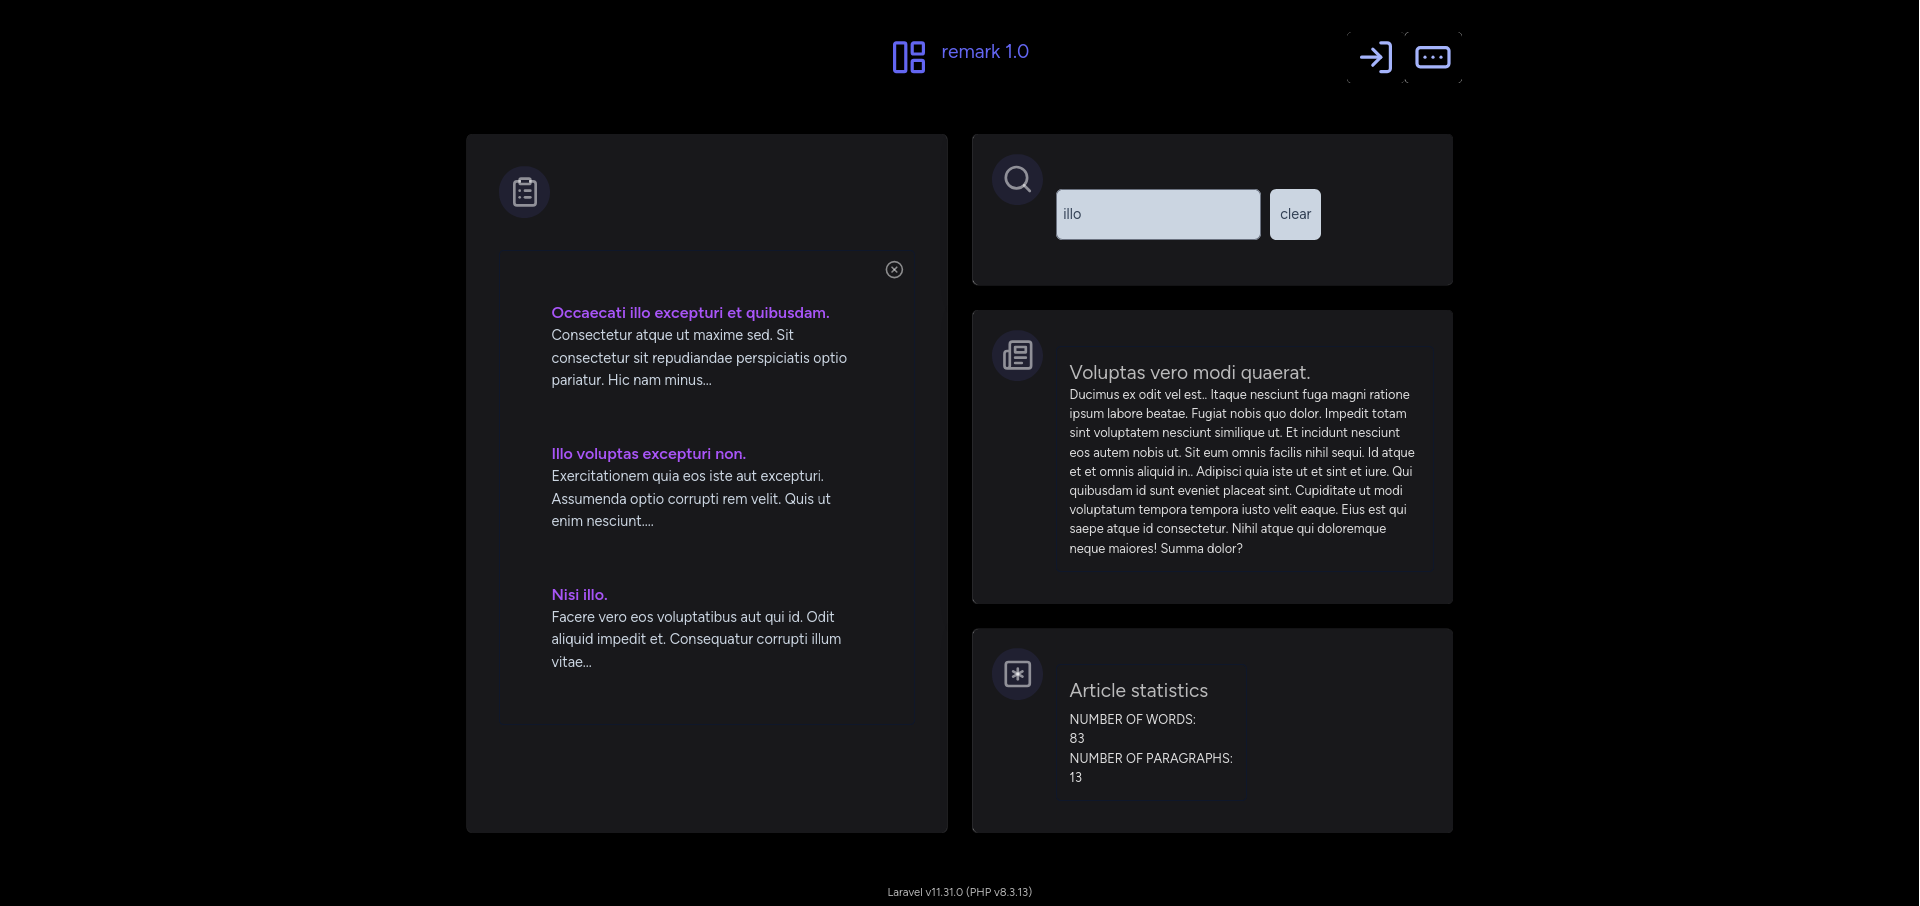
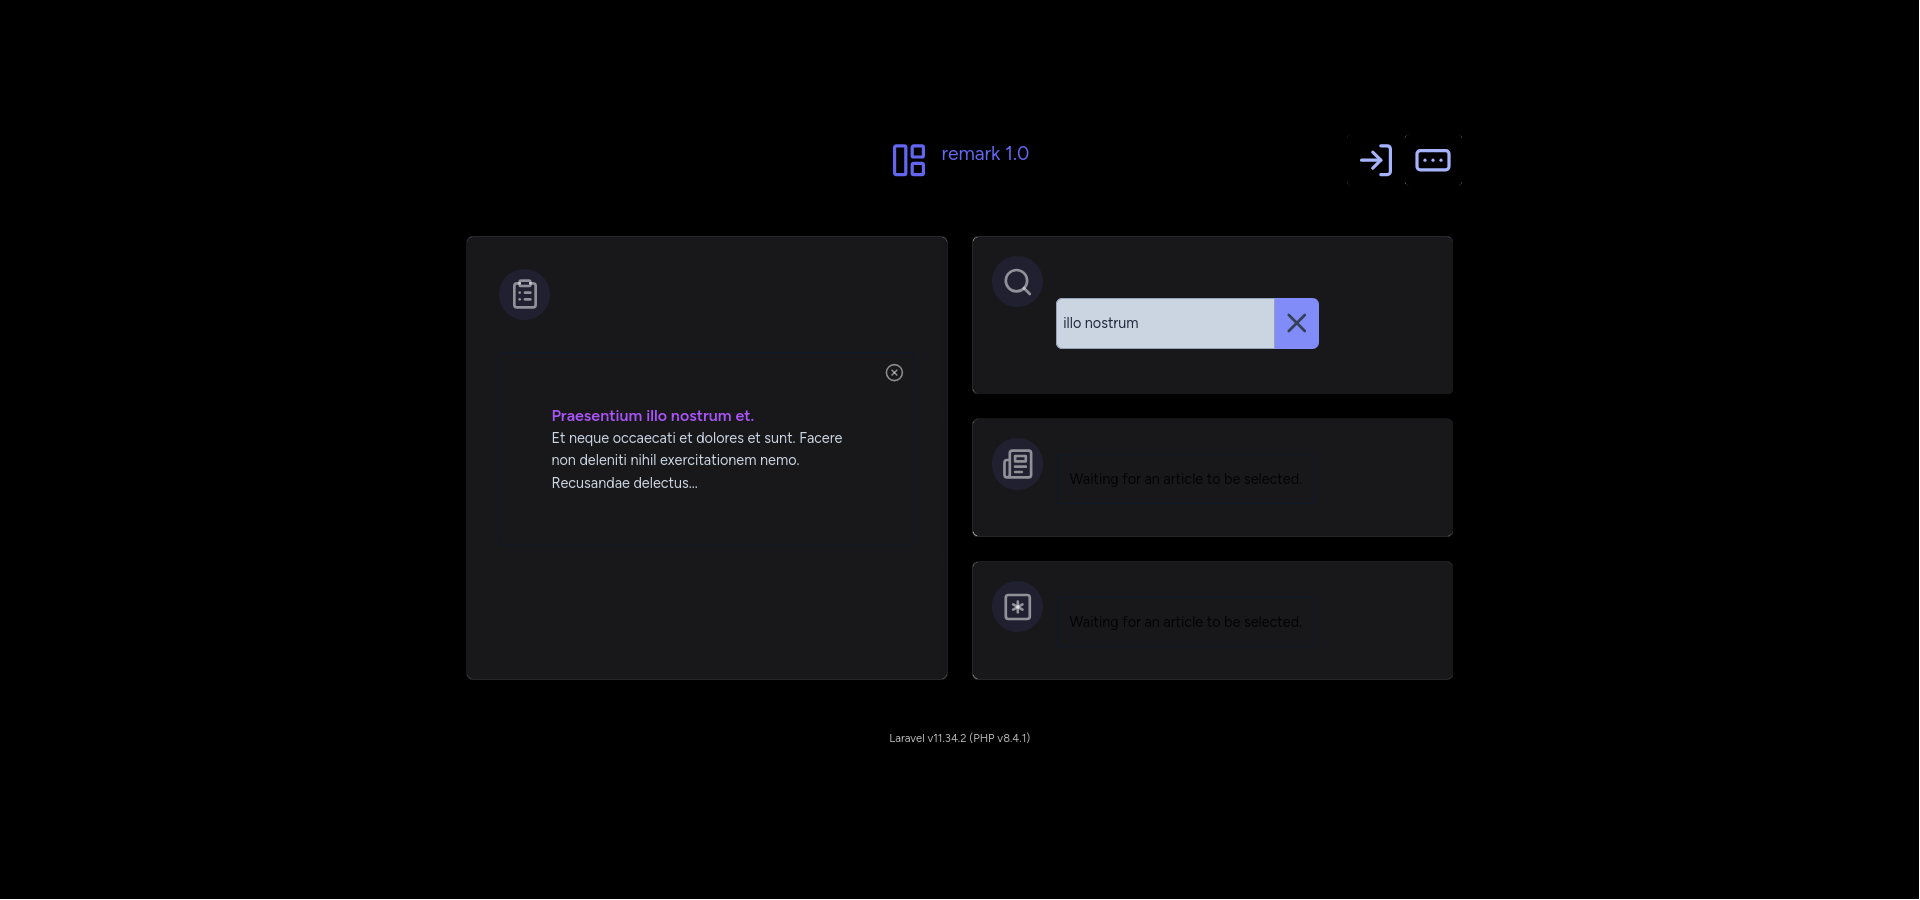
an improvement of the user interface

diff --git a/hologram-eaas/projects/apps/remark/remark-1.0/app/Livewire/Article/ArticleSearch.php b/hologram-eaas/projects/apps/remark/remark-1.0/app/Livewire/Article/ArticleSearch.php
@@ -45,12 +45,21 @@ class ArticleSearch extends Component
         return <<<'HTML'
         <div>
             <form wire:submit.prevent="searchForm" onkeydown="return event.key != 'Enter';" class="mt-2">
-                <input type="text" class="p-2 my-4 w-9/12 text-lg rounded-lg border text-slate-700 bg-slate-300 size-16"
-                    wire:model.live.debounce="searchText" placeholder="{{ $placeholder }}">
-                <button class="p-2 ml-2 text-lg rounded-lg text-slate-700 bg-slate-300 size-16" wire:click.prevent="clear()"
-                    {{ empty($searchText) ? "disabled" : "" }}>
-                    clear
-                </button>
+            <div class="flex justify-center mt-4">
+                    <input type="text" class="p-2 my-4 mt-4 mr-0 w-full text-lg rounded-l-lg border bg-slate-300 size-16 border-slate-400 text-slate-800 focus:border-indigo-400"
+                        wire:model.live.debounce="searchText" placeholder="{{ $placeholder }}">
+                    <button class="p-2 mt-4 ml-0 text-lg bg-indigo-400 rounded-r-lg text-slate-700 size-16" wire:click.prevent="clear()"
+                        {{ empty($searchText) ? "disabled" : "" }}>
+                        <svg xmlns="http://www.w3.org/2000/svg" width="24" height="24"
+                            viewBox="0 0 24 24" fill="none" stroke="currentColor"
+                            stroke-width="2" stroke-linecap="round" stroke-linejoin="round"
+                            class="lucide lucide-x size-10">
+                            <title>clear</title>
+                                <path d="M18 6 6 18"/>
+                                <path d="m6 6 12 12"/>
+                        </svg>
+                    </button>
+                </div>
             </form>
         </div>
         HTML;

diff --git a/hologram-eaas/projects/apps/remark/remark-1.0/README.md b/hologram-eaas/projects/apps/remark/remark-1.0/README.md
@@ -1,5 +1,11 @@
 # remark
 
-![An example of a social media that hosts the opinions of its users](./screenshots/remark-1.0_landing_page.png)
+When looking for text:
+
+![when looking for text](./screenshots/remark-1.0_landing_page.png)
+
+When selecting an item:
+
+![when selecting an item](./screenshots/remark-1.0_landing_page_article_selected.png)
 
 Web application developed, thanks to Laravel, Livewire and various other open source libraries and tools, for demonstration purposes only.
